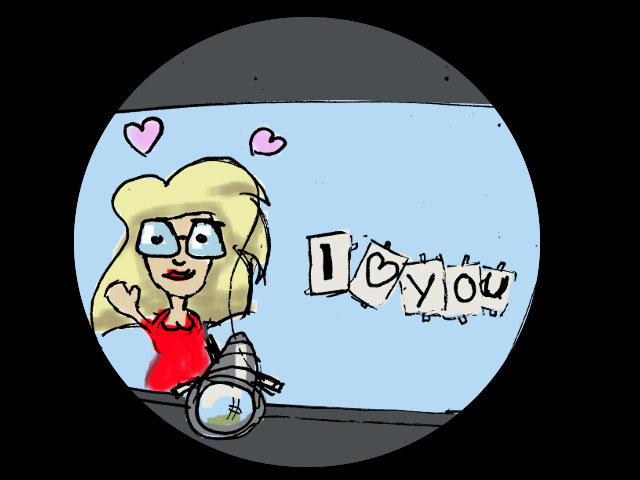
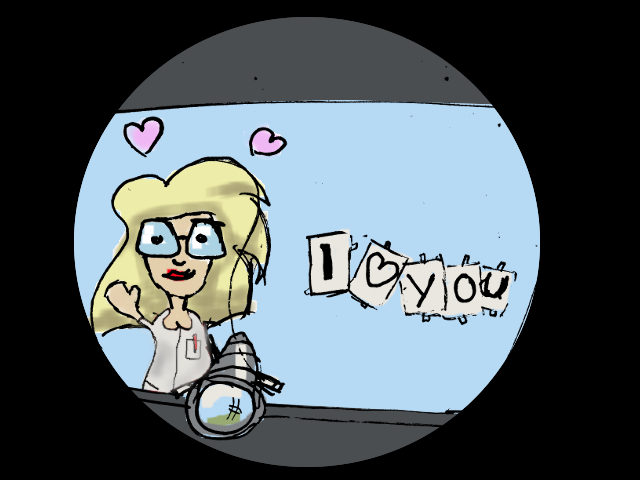
Final push before publishing on LD website?

Changed region(s): [[0.1875, 0.625, 0.3438, 0.8438]]

diff --git a/script/game.js b/script/game.js
@@ -8,8 +8,11 @@ var hasBlood = false;
 var lionRoared = false;
 var hasHat = false;
 var hasFins = false;
+var hasSalami = false;
 var talkedAboutLions = false;
 var leftAfterLion = false;
+
+var showingPlans = false;
 
 function createEndingScene(player) {
 
@@ -24,7 +27,7 @@ function createEndingScene(player) {
     var backgroundLayer = Paca.createLayer();
     var rocketLayer = Paca.createLayer();
 
-    var rocketSprite = Paca.createSprite("images/rocket.png", 1);
+    var rocketSprite = Paca.createSprite("images/rocket.png", 4);
 
     var rocket = Paca.createActor([
             rocketSprite, 
@@ -60,7 +63,7 @@ function createEndingScene(player) {
             planLayer2.clear();
             Paca.playSound("sounds/explode");
             rocket.walkTo({x:405, y:69}, function() {
-                Paca.addText({name:"Scientist", text:"Oh crap...", color:"rgb(255,255,255)", callback: function () {
+                Paca.addText({name:"Scientist", text:"Oh crap... EPIC!", color:"rgb(255,255,255)", callback: function () {
                     rocketLayer.addObject(Paca.createDrawable(Paca.createSprite("images/theend.png", 1), {x:0, y:0}));
                     Paca.playBackground("music/song1");
                 }});
@@ -81,7 +84,6 @@ function createStartScene() {
         //goFull();
         Paca.changeScene("houseScene");
         Paca.playBackground("music/song1", 0.5);
-        Paca.addText({name:"Scientist", text:"Sigh...", color:"rgb(255,255,255)"});
     });
     welcomeLayer.addObject(splashScreen);
     startScene.setLayers([welcomeLayer]);
@@ -176,9 +178,29 @@ function createMenuLayer(planLayer) {
         }
     );
 
-    var showing = false;
     menuLayer.addObject(Paca.createClickable(Paca.createSprite("images/item_plan.png", 1), {x: 610, y: 380}, function() {
-        if(!showing) {
+        showPlans(menuLayer, planLayer);
+    }));
+    menuLayer.addObject(muteButton);
+    return menuLayer;
+}
+
+function createTelescopeScene(menuLayer) {
+    var telescopeScene = Paca.createScene();
+    var layer = Paca.createLayer();
+    layer.addObject(Paca.createClickable(Paca.createSprite("images/scene_telescope.png", 1), {x: 320, y: 240}, function() {
+        Paca.changeScene("houseScene");
+    }));
+    telescopeScene.setLayers([menuLayer, layer]);
+    telescopeScene.activate = function() {
+        Paca.addText({name:"Scientist", text:"There she is, on another planet...", color:"rgb(255,255,255)"});
+        Paca.addText({name:"Scientist", text:"Just a thousand miles apart, but no way to reach her", color:"rgb(255,255,255)"});
+    };
+    return telescopeScene;
+} 
+
+function showPlans(menuLayer, planLayer) {
+        if(!showingPlans) {
 
             if(hasRocket) {
                 planLayer.addObject(Paca.createDrawable(Paca.createSprite("images/item_rocket_design_silo.png",1), {x:73, y:72}));
@@ -198,29 +220,11 @@ function createMenuLayer(planLayer) {
                 //And remove popup again
                 planLayer.clear();
                 menuLayer.popObject();
-                showing = false;
+                showingPlans = false;
             }));
-            showing = true;
+            showingPlans = true;
         }   
-    }));
-
-    menuLayer.addObject(muteButton);
-    return menuLayer;
-}
-
-function createTelescopeScene(menuLayer) {
-    var telescopeScene = Paca.createScene();
-    var layer = Paca.createLayer();
-    layer.addObject(Paca.createClickable(Paca.createSprite("images/scene_telescope.png", 1), {x: 320, y: 240}, function() {
-        Paca.changeScene("houseScene");
-    }));
-    telescopeScene.setLayers([menuLayer, layer]);
-    telescopeScene.activate = function() {
-        Paca.addText({name:"Scientist", text:"There she is, on another planet...", color:"rgb(255,255,255)"});
-        Paca.addText({name:"Scientist", text:"Just a thousand miles apart, but no way to reach her", color:"rgb(255,255,255)"});
-    };
-    return telescopeScene;
-} 
+    }
 
 function createOutsideScene(planLayer, menuLayer, player) {
 
@@ -246,6 +250,10 @@ function createOutsideScene(planLayer, menuLayer, player) {
             rocketIdea = true;
         }
     };
+
+    backgroundLayer.addObject(Paca.createCollectable(Paca.createSprite("images/item_hearts.png", 3), {x: 480, y: 142}, {x:273, y:344}, function() {
+        Paca.addText({name:"Scientist", text:"My love...", color:"rgb(255,255,255)"});
+    }));
 
     backgroundLayer.addObject(Paca.createCollectable(Paca.createSprite("images/item_door.png", 1), {x: 300, y: 180}, {x:207, y:332}, function() {
         player.setLocation({x: 450, y: 390});
@@ -291,6 +299,7 @@ function createRocketScene(planLayer, menuLayer, player) {
             Paca.addText({name:"Scientist", text:"This is the perfect body for my rocket!", color:"rgb(255,255,255)", callback: function() {
                 Paca.playSound("sounds/itemfound");
                 hasRocket = true;
+                showPlans(menuLayer, planLayer);
             }});
         }
     };
@@ -335,8 +344,9 @@ function createCircusScene(planLayer, menuLayer, player) {
             roarLayer.addObject(Paca.createDrawable(Paca.createSprite("images/item_lion_roar.png", 1), {x:380  ,y:190}));
             roarLayer.addObject(Paca.createDrawable(Paca.createSprite("images/item_roar.png", 2), {x:0,y:0}));
             Paca.playSound("sounds/roar");
+            Paca.playSound("sounds/aahh");
             Paca.addText({name:"Wizard", text:"AAAAHHHHHH!!", color:"rgb(255,255,255)", callback: function() {
-               Paca.currentScene.unfreeze();
+                Paca.currentScene.unfreeze();
                 roarLayer.clear();
                 wizardLayer.clear();
                 wizardLayer.addObject(Paca.createCollectable(Paca.createSprite("images/wizard_scared.png", 1), {x: 545, y: 400}, {x:440, y:400}, function() {
@@ -348,6 +358,7 @@ function createCircusScene(planLayer, menuLayer, player) {
                         hasHat = true;
                         Paca.playSound("sounds/itemfound");
                         Paca.currentScene.unfreeze();
+                        showPlans(menuLayer, planLayer);
                     }}, true);
                 }));
             }});
@@ -391,6 +402,14 @@ function createElectronicsStoreScene(planLayer, menuLayer, player) {
     backgroundLayer.addObject(Paca.createCollectable(Paca.createSprite("images/item_arrow_s.png", 1), {x: 240, y: 430}, {x:240, y:450}, function() {
         player.setLocation({x: 417, y: 340});
         Paca.changeScene("townScene");
+    }));
+
+    backgroundLayer.addObject(Paca.createCollectable(Paca.createSprite("images/item_static_tv.png", 3), {x: 387, y: 116}, {x:387, y:225}, function() {
+        Paca.addText({name:"Scientist", text:"No signal on this TV", color:"rgb(255,255,255)"}, true);
+    }));
+
+    backgroundLayer.addObject(Paca.createCollectable(Paca.createSprite("images/item_neonbooksign.png", 8), {x: 578, y: 130}, {x:399, y:252}, function() {
+        Paca.addText({name:"Scientist", text:"A broken neon book sign", color:"rgb(255,255,255)"}, true);
     }));
 
     backgroundLayer.addObject(Paca.createCollectable(Paca.createSprite("images/item_door.png", 1), {x: 453, y: 260}, {x:399, y:309}, function() {
@@ -464,6 +483,7 @@ function createButcherScene(planLayer, menuLayer, player) {
             Paca.addText({name:"Butcher", text:"What do you meat?", color:"rgb(255,255,255)"}, true);
             Paca.addText({name:"Scientist", text:"I'd like some salami please!", color:"rgb(255,255,255)", callback: function() {
                 Paca.playSound("sounds/itemfound");
+                hasSalami = true;
                 Paca.changeScene("endingScene");
             }});
         }
@@ -553,6 +573,7 @@ function createTownScene(planLayer, menuLayer, player) {
                     cadillacLayer.clear();
                     cadillacLayer.addObject(Paca.createDrawable(Paca.createSprite("images/item_cadillac_finless.png", 1), {x:260, y:365 }));
                     Paca.currentScene.unfreeze();
+                    showPlans(menuLayer, planLayer);
                 });
             }});
         }
@@ -605,7 +626,7 @@ function createHouseScene(planLayer, menuLayer, player) {
 
     var backgroundLayer = Paca.createLayer();
     backgroundLayer.addObject(Paca.createDrawable(Paca.createSprite("images/scene_house.png", 1), {x: 0, y: 0}));
-    backgroundLayer.addObject(Paca.createCollectable(Paca.createSprite("images/item_telescope.png", 1), {x: 300, y: 215}, {x:313, y:250}, function() {
+    backgroundLayer.addObject(Paca.createCollectable(Paca.createSprite("images/item_telescope.png", 5), {x: 300, y: 215}, {x:313, y:250}, function() {
         Paca.changeScene("telescopeScene");
         if(!canGoOutside) {
             canGoOutside = true;
@@ -637,7 +658,8 @@ function createHouseScene(planLayer, menuLayer, player) {
             if(canGoOutside) {
                 Paca.addText({name:'Scientist', text:'The Mythbusters would know how to make a rocket...', color:'rgb(255,255,255)'}, true);
             } else {
-                Paca.addText({name:'Scientist', text:'My plan to build a rocket...', color:'rgb(255,255,255)'}, true);
+                Paca.addText({name:'Scientist', text:'This is my plan to build a rocket...', color:'rgb(255,255,255)'}, true);
+                showPlans(menuLayer, planLayer);
             }
 
         }
@@ -651,14 +673,10 @@ function createHouseScene(planLayer, menuLayer, player) {
     scene.activate = function() {
         if(firstTime) {
             firstTime = false;
-            hintLayer.addObject(Paca.createDrawable(Paca.createSprite("images/getting_started.png", 1), {x: 300, y: 320}));
-
-            Paca.currentScene.freeze();
-            Paca.addText({name:'Scientist', text:'Welcome!', color:'rgb(255,255,255)', callback: function() {
+            hintLayer.addObject(Paca.createClickable(Paca.createSprite("images/getting_started.png", 1), {x: 440, y: 380}, function() {
+                Paca.addText({name:'Scientist', text:'If you get stuck, look at my desk', color:'rgb(255,255,255)'}, true);
                 hintLayer.clear();
-                Paca.currentScene.unfreeze();
-            }}, true);
-            Paca.addText({name:'Scientist', text:'If you get stuck, look at my desk', color:'rgb(255,255,255)'});
+            }));
         }
     }
     return scene;
@@ -701,14 +719,6 @@ function createGame() {
     gameScenes['circusScene'] = createCircusScene(planLayer, menuLayer, player);
     gameScenes['rocketScene'] = createRocketScene(planLayer, menuLayer, player);
     gameScenes['endingScene'] = createEndingScene(player);
-
-    //Override for debug:
-    //Paca.DEBUG = true;
-    /*hasRocket = true;
-    hasFins = true;
-    hasHat = true;
-    knowsSalami = true;*/
-    //gameScenes['startScene'] = gameScenes['electronicsStoreScene'];
 
     return gameScenes;
 }
@@ -787,8 +797,12 @@ window.onload = function () {
             "images/rocket.png",
             "images/theend.png",
             "images/getting_started.png",
+            "images/item_neonbooksign.png",
+            "images/item_static_tv.png",
+            "images/item_hearts.png",
         ],
         [
+            "sounds/aahh",
             "sounds/void",
             "sounds/typewriter",
             "sounds/explode",

diff --git a/script/game_engine.js b/script/game_engine.js
@@ -723,9 +723,9 @@ Paca.mouseClick = function(e) {
         return;
     }
     point = Paca.translatePointToGameWorld(Paca.extractPoint(e));
-        if(Paca.DEBUG) {
-            console.log(point);
-        }
+    if(Paca.DEBUG) {
+        console.log(point);
+    }
     Paca.currentScene.click(point);
     e.preventDefault();
     e.stopPropagation();
